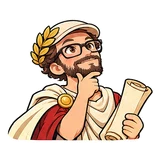
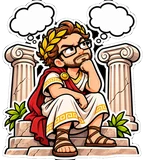
Mika : planches Archer et Pilote, portraits Philosophe (nouveau style) et Pilote

diff --git a/src/data/tenues-art.generated.ts b/src/data/tenues-art.generated.ts
@@ -156,6 +156,7 @@ export const TENUE_ART: readonly string[] = [
   'mika/tictactoe',
   'mika/admiral',
   'mika/tycoon',
+  'mika/racer',
   'nini/bowler',
   'nini/strategist',
   'nini/tictactoe',
@@ -324,6 +325,7 @@ export const TENUE_PORTRAITS: readonly string[] = [
   'mika/tictactoe',
   'mika/admiral',
   'mika/tycoon',
+  'mika/racer',
   'nini/bowler',
   'nini/strategist',
   'nini/tictactoe',
@@ -472,6 +474,9 @@ export const TENUE_ART_BAD: readonly string[] = [
   'mika/tycoon/pouces',
   'mika/tycoon/timide',
   'mika/tycoon/determine',
+  'mika/racer/pouces',
+  'mika/racer/timide',
+  'mika/racer/determine',
   'nini/tycoon/pleurs',
   'nini/tycoon/bisou',
   'nini/star/colere',
